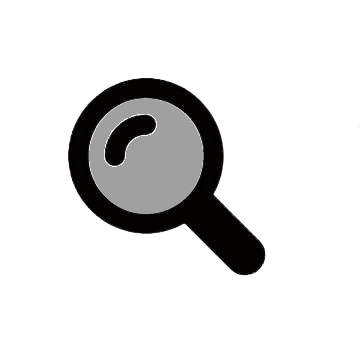
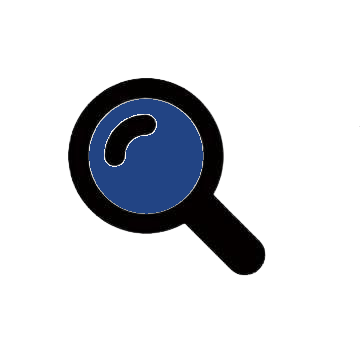
feat: botones de celular y aplicacion juntos

Changed region(s): [[0.2444, 0.275, 0.5806, 0.6111]]

diff --git a/frontend/App.js b/frontend/App.js
@@ -1,6 +1,7 @@
 import { NavigationContainer } from "@react-navigation/native";
 import { createBottomTabNavigator } from "@react-navigation/bottom-tabs";
-import { Image } from "react-native";
+import { Image, StatusBar } from "react-native";
+
 
 import HomeScreen from "./screens/Inicio";
 import CrearScreen from "./screens/Crear";
@@ -8,54 +9,52 @@ import PerfilScreen from "./screens/Perfil";
 import BuscarScreen from "./screens/Buscar";
 
 const Tab = createBottomTabNavigator();
-
+        
 export default function App() {
-    return (
-        <NavigationContainer>
-            <Tab.Navigator
-                screenOptions={{
-                    headerShown: false,
+  return (
+    <>
+      {/* Transparencia total en la barra superior del sistema */}
+      <StatusBar
+        translucent
+        backgroundColor="transparent"
+        barStyle="light-content"
+      />
 
-                    tabBarStyle: {
-                        position: "absolute",
+      <NavigationContainer>
+        <Tab.Navigator
+          screenOptions={{
+            headerShown: false,
+            tabBarShowLabel: false,
 
-                        bottom: 50,
-                        left: 10,
-                        right: 10,
-                        height: 50,
-
-                        borderRadius: 20,
-
-                        backgroundColor: "#969aa8",
-
-                        //borderTopWidth: 0,
-
-                        borderWidth: 2,
-                        borderColor:'black',
-
-                        elevation: 5,
-                    },
-
-                    tabBarItemStyle: {
-                        paddingVertical: 0,
-                    },
-                }}
-            >
-                <Tab.Screen
-                    name="Inicio"
-                    component={HomeScreen}
-                    options={{
-                        tabBarIcon: () => (
-                            <Image
-                                source={require("./assets/Home.png")}
-                                style={{
-                                width: 30,
-                                height: 30,
-                                }}
-                            />
-                        )
-                    }}
+            tabBarStyle: {
+              position: "absolute",
+              bottom: 0,
+              left: 0,
+              right: 0,
+              height: 75,
+              backgroundColor: "#224484", // Mismo fondo gris de tus pantallas
+              borderTopWidth: 0,
+              elevation: 0, // Quita la línea superior y sombra en Android
+              paddingBottom: 15, // Eleva los íconos por encima de los botones de Android
+            },
+            tabBarItemStyle: {
+              justifyContent: "center",
+              alignItems: "center",
+            },
+          }}
+        >
+          <Tab.Screen
+            name="Inicio"
+            component={HomeScreen}
+            options={{
+              tabBarIcon: () => (
+                <Image
+                  source={require("./assets/Home.png")}
+                  style={{ width: 28, height: 28, tintColor: "#000000" }}
                 />
+              ),
+            }}
+          />
 
                 <Tab.Screen
                     name="Crear"
@@ -106,5 +105,6 @@ export default function App() {
                 />
             </Tab.Navigator>
         </NavigationContainer>
+        </>
     );
 }

diff --git a/frontend/screens/Crear.jsx b/frontend/screens/Crear.jsx
@@ -72,7 +72,7 @@ export default function CrearScreen() {
     };
 
     // FUNCIÓN DE GUARDAR CON VALIDACIONES ESTRICTAS
-    const guardarRegistro = () => {
+    const guardarRegistro = async () => {
         if (!imagen) {
             Alert.alert('Falta la imagen', 'Debes seleccionar o tomar una foto antes de guardar.');
             return;
@@ -93,22 +93,48 @@ export default function CrearScreen() {
             return;
         }
 
-        Alert.alert(
-            '¡Éxito!', 
-            'Todos los datos están correctos y se han guardado.',
-            [
-                {
-                    text: 'OK',
-                    onPress: () => {
-                        setImagen(null);
-                        setNombre('');
-                        setCategoriaActual('');
-                        setCategorias([]);
-                        setDescripcion('');
-                    }
-                }
-            ]
-        )
+        try {
+            const formData = new FormData();
+
+            formData.append('name', nombre);
+
+            formData.append('categories', JSON.stringify(categorias));
+
+            formData.append('description', descripcion);
+
+            formData.append('image', {
+                uri: imagen,
+                name: 'imagen.jpg',
+                type: 'image/jpeg'
+            });
+
+            const response = await fetch('http://TU_IP:3000/images', {
+                method: 'POST',
+                body: formData
+            });
+
+            const data = await response.json();
+
+            if (!response.ok) {
+                throw new Error(data.error || 'Error al guardar la imagen');
+            }
+
+            Alert.alert('¡Éxito!', 'La imagen se guardó correctamente.');
+
+            setImagen(null);
+            setNombre('');
+            setCategoriaActual('');
+            setCategorias([]);
+            setDescripcion('');
+
+        } catch (error) {
+            console.error(error);
+
+            Alert.alert(
+                'Error',
+                'No se pudo guardar la imagen.'
+            );
+        }
     };
 
     return (

diff --git a/backend/service/imageService.js b/backend/service/imageService.js
@@ -15,21 +15,18 @@ export function postImage(bodyData, fileData) {
     const dimensions = imageSize(buffer);
 
     const imageData = {
-        name: bodyData.name || fileData.originalname,
-        path: fileData.path,
-        width: dimensions.width,
-        height: dimensions.height
-    };
+    name: bodyData.name || fileData.originalname,
+    path: fileData.path,
+    width: dimensions.width,
+    height: dimensions.height,
+    description: bodyData.description
+};
 
     // Parsear las categorías enviadas desde req.body
     let categoryIds = [];
+
     if (bodyData.categories) {
-        // Si mandas un string separado por comas o un solo valor desde el cliente
-        if (typeof bodyData.categories === "string") {
-            categoryIds = bodyData.categories.split(",").map(id => Number(id.trim()));
-        } else if (Array.isArray(bodyData.categories)) {
-            categoryIds = bodyData.categories.map(Number);
-        }
+        categoryIds = JSON.parse(bodyData.categories);
     }
 
     return create(imageData, categoryIds);

diff --git a/backend/repository/imageRepository.js b/backend/repository/imageRepository.js
@@ -27,13 +27,14 @@ export function create(image, categoryIds = []) {
     const createTransaction = db.transaction((imageData, categories) => {
         // 1. Insertar la imagen
         const result = db.prepare(`
-            INSERT INTO image (name, path, width, height)
-            VALUES (?, ?, ?, ?)
+            INSERT INTO image (name, path, width, height, description)
+            VALUES (?, ?, ?, ?, ?)
         `).run(
             imageData.name,
             imageData.path,
             imageData.width,
-            imageData.height
+            imageData.height,
+            imageData.description
         );
 
         const imageId = result.lastInsertRowid;

diff --git a/backend/database/schema.js b/backend/database/schema.js
@@ -7,7 +7,8 @@ export function startBDD(){
             name TEXT NOT NULL,
             path TEXT NOT NULL,
             width INTEGER, 
-            height INTEGER 
+            height INTEGER,
+            description TEXT NOT NULL
         );
 
         CREATE TABLE IF NOT EXISTS category(
